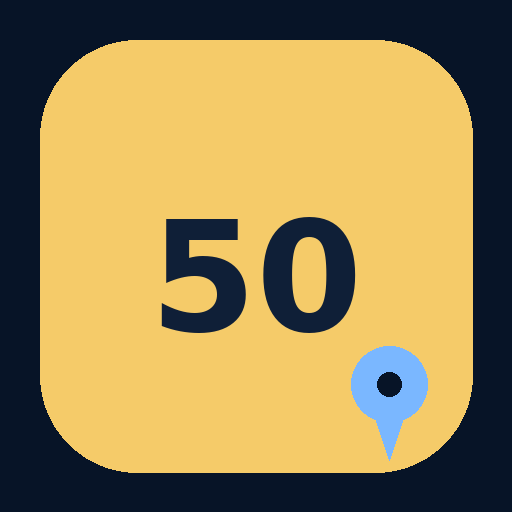
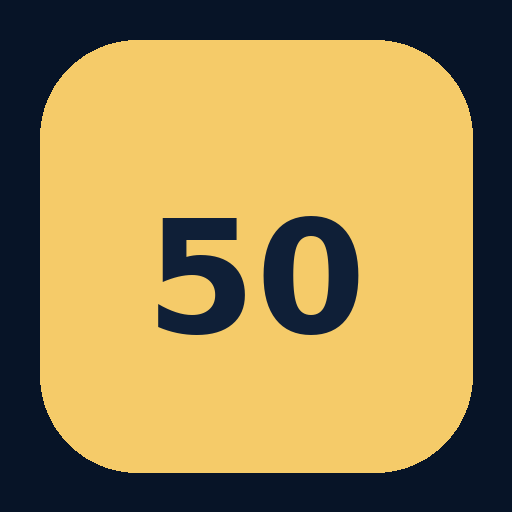
Add files via upload
v6.1.1 bugfix von voriger kaputter version

diff --git a/sw.js b/sw.js
@@ -1,5 +1,20 @@
-const CACHE="fab50-v5";
-const CORE=["./","./index.html","./manifest.webmanifest","./icons/icon-192.png","./icons/icon-512.png","./icons/icon-maskable-512.png"];
-self.addEventListener("install",e=>{e.waitUntil(caches.open(CACHE).then(c=>c.addAll(CORE)));self.skipWaiting()});
-self.addEventListener("activate",e=>{e.waitUntil(caches.keys().then(keys=>Promise.all(keys.filter(k=>k!==CACHE).map(k=>caches.delete(k)))));self.clients.claim()});
-self.addEventListener("fetch",e=>{if(e.request.method!=="GET")return;const u=new URL(e.request.url);if(e.request.mode==="navigate"){e.respondWith(fetch(e.request).then(r=>{let c=r.clone();caches.open(CACHE).then(x=>x.put("./index.html",c));return r}).catch(()=>caches.match("./index.html")));return;}e.respondWith(caches.match(e.request).then(hit=>hit||fetch(e.request).then(r=>{let c=r.clone();caches.open(CACHE).then(x=>x.put(e.request,c)).catch(()=>{});return r}).catch(()=>hit)))})
+const CACHE = "fab50-v6-1-1";
+const ASSETS = ["./", "./index.html", "./manifest.webmanifest", "./icons/icon-192.png", "./icons/icon-512.png", "./icons/icon-maskable-512.png"];
+self.addEventListener("install", event => {
+  event.waitUntil(caches.open(CACHE).then(cache => cache.addAll(ASSETS)));
+  self.skipWaiting();
+});
+self.addEventListener("activate", event => {
+  event.waitUntil(caches.keys().then(keys => Promise.all(keys.filter(k => k !== CACHE).map(k => caches.delete(k)))));
+  self.clients.claim();
+});
+self.addEventListener("fetch", event => {
+  if(event.request.method !== "GET") return;
+  const url = new URL(event.request.url);
+  if(url.origin !== self.location.origin) return;
+  event.respondWith(fetch(event.request).then(response => {
+    const copy = response.clone();
+    caches.open(CACHE).then(cache => cache.put(event.request, copy));
+    return response;
+  }).catch(() => caches.match(event.request).then(hit => hit || caches.match("./index.html"))));
+});

diff --git a/index.html b/index.html
@@ -334,7 +334,7 @@ async function shareCollage(){
     }
   }
   downloadCollage();
-});if(navigator.canShare?.({files:[file]})){try{await navigator.share({title:'Meine Fab 50 Collage',files:[file]});return}catch(e){if(e.name==='AbortError')return}}downloadCollage()}
+}
 
 let previousCharDone=null;
 const allStatues=()=>DATA.flatMap(g=>g.statues.map(s=>({...s,park:g.park,short:g.short,accent:g.accent})));

diff --git a/README.md b/README.md
@@ -36,3 +36,9 @@ Die Pins sind Näherungspunkte auf Basis der bekannten Standort-Landmarken. Ange
 - Vor-/Zurück-Navigation im Collage-Dialog
 - Download der aktuellen Seite oder aller 5 Seiten
 - Teilen der aktuell sichtbaren Seite
+
+
+## v6.1.1 Hotfix
+- Behebt einen JavaScript-Syntaxfehler aus v6.1, durch den die Park-/POI-Listen nicht gerendert wurden.
+- Vollständiges PWA-Paket mit Manifest, Service Worker und Icons.
+- Service Worker nutzt eine neue Cache-Version und Network-First für lokale Dateien, damit Updates zuverlässiger geladen werden.
